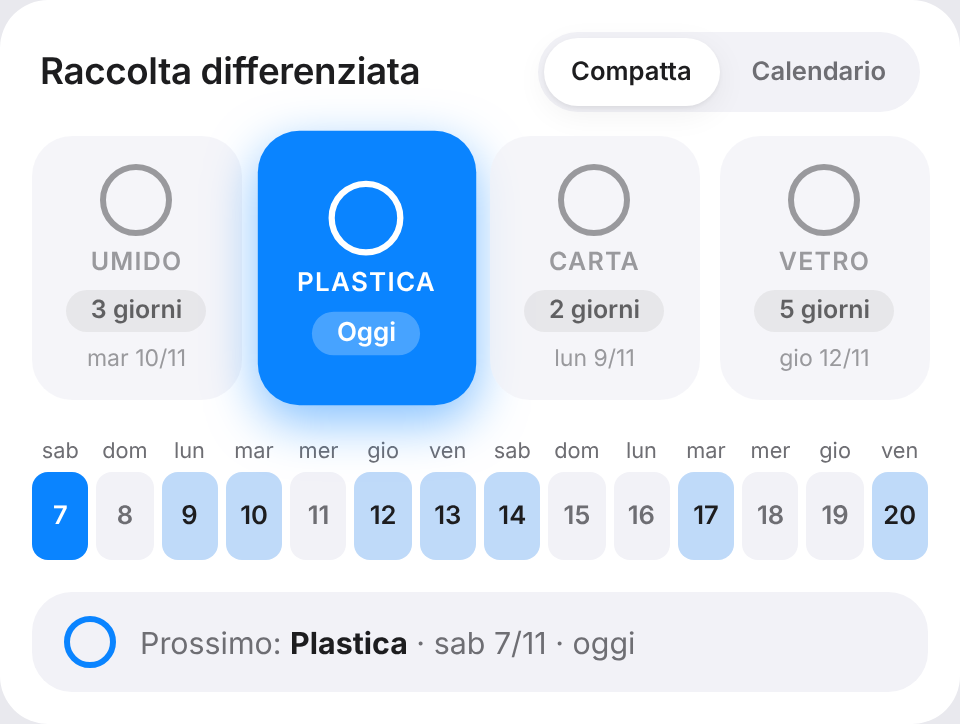
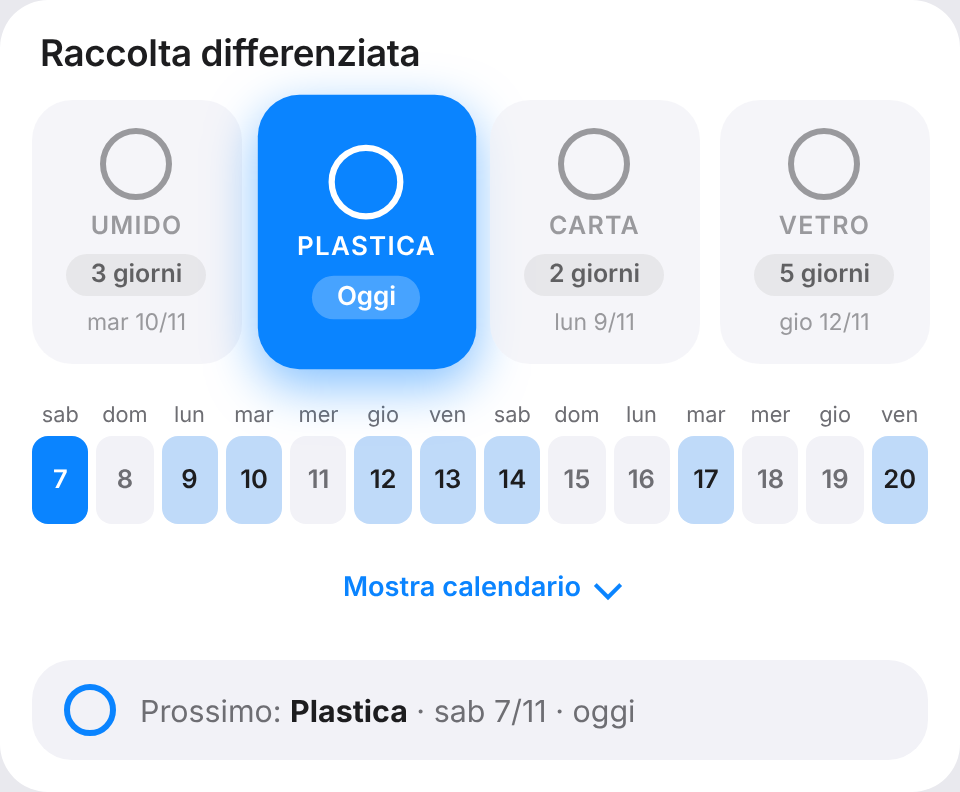
Calendario espandibile dalla card compatta (0.2.1)
Claude-Session: https://claude.ai/code/session_01BPWojQZg7AGnjhhBiETp5T

diff --git a/custom_components/garbage_view/frontend/garbage-view-card.js b/custom_components/garbage_view/frontend/garbage-view-card.js
@@ -16,7 +16,7 @@
  * dopo aver validato il valore con una regex.
  */
 
-const CARD_VERSION = "0.2.0";
+const CARD_VERSION = "0.2.1";
 const SUPPORTED_SCHEMA = 1;
 // Periodi iniziali del calendario grande.
 const CAL_MODES = ["week", "next_week", "month"];
@@ -40,9 +40,8 @@ const STRINGS = {
     no_entity: (e) => `Entità non trovata: ${e}`,
     unavailable: "Dati non disponibili.",
     bad_schema: "Versione dati non supportata: aggiorna l'integrazione o la card.",
-    view_compact: "Compatta",
-    view_calendar: "Calendario",
-    view_label: "Tipo di vista",
+    expand: "Mostra calendario",
+    collapse: "Nascondi calendario",
     next_week: "Prossima",
     month: "Mese",
     range_label: "Periodo mostrato",
@@ -66,9 +65,8 @@ const STRINGS = {
     no_entity: (e) => `Entity not found: ${e}`,
     unavailable: "Data not available.",
     bad_schema: "Unsupported data version: update the integration or the card.",
-    view_compact: "Compact",
-    view_calendar: "Calendar",
-    view_label: "View type",
+    expand: "Show calendar",
+    collapse: "Hide calendar",
     next_week: "Next",
     month: "Month",
     range_label: "Period shown",
@@ -215,7 +213,7 @@ const STYLES = `
   .dot { width: 8px; height: 8px; border-radius: 50%; background: var(--gv-accent); flex: none; }
   .detail .none { color: var(--gv-text-secondary); }
 
-  /* ---- Intestazione: titolo + interruttore Compatta / Calendario ---- */
+  /* ---- Intestazione ---- */
   .header { gap: 12px; flex-wrap: wrap; align-items: center; }
   /* Controllo segmentato stile iOS: una "pillola" grigia con il segmento attivo in rilievo */
   .seg {
@@ -232,10 +230,39 @@ const STYLES = `
   }
   .seg button[aria-pressed="true"] { background: var(--gv-bg); color: var(--gv-text); box-shadow: var(--gv-shadow); }
   :host([data-dark]) .seg button[aria-pressed="true"] { background: #636366; }
-  .header .seg { margin-left: auto; }
   .seg button:focus-visible, .nav button:focus-visible { outline: 3px solid var(--gv-accent); outline-offset: 1px; }
 
+  /* ---- Pannelli espandibili (striscia <-> calendario) ----
+     Animazione di altezza senza JS di misura: grid-template-rows 0fr -> 1fr.
+     Il pannello chiuso è nascosto (visibility) e "inert": niente focus né lettori di schermo. */
+  .collapse {
+    display: grid; grid-template-rows: 0fr; opacity: 0; visibility: hidden;
+    transition: grid-template-rows 360ms cubic-bezier(.32, .72, 0, 1), opacity 240ms ease,
+                visibility 0s linear 360ms;
+  }
+  .collapse.open { grid-template-rows: 1fr; opacity: 1; visibility: visible; transition-delay: 0s; }
+  .collapse > .inner { overflow: hidden; min-height: 0; padding: 4px; margin: -4px; }
+
+  /* ---- Pulsante espandi / comprimi ---- */
+  .expander {
+    all: unset; box-sizing: border-box; cursor: pointer;
+    display: flex; align-items: center; justify-content: center; gap: 8px;
+    width: 100%; min-height: 44px; margin-top: 8px; border-radius: 12px;
+    font-size: .85rem; font-weight: 600; color: var(--gv-accent);
+    transition: background var(--gv-anim-duration) ease, transform var(--gv-anim-duration) ease;
+  }
+  .expander:hover { background: var(--gv-tile-bg); }
+  .expander:active { transform: scale(.97); }
+  .expander:focus-visible { outline: 3px solid var(--gv-accent); outline-offset: 1px; }
+  .expander .chev {
+    width: 8px; height: 8px; margin-top: -3px;
+    border-right: 2px solid currentColor; border-bottom: 2px solid currentColor;
+    transform: rotate(45deg); transition: transform 360ms cubic-bezier(.32, .72, 0, 1), margin var(--gv-anim-duration) ease;
+  }
+  .expander[aria-expanded="true"] .chev { transform: rotate(-135deg); margin-top: 3px; }
+
   /* ---- Calendario grande ---- */
+  .cal { margin-top: 16px; }
   .cal-toolbar { display: flex; align-items: center; justify-content: space-between; gap: 8px; flex-wrap: wrap; margin-bottom: 12px; }
   .nav { display: flex; align-items: center; gap: 4px; }
   .nav button {
@@ -428,7 +455,7 @@ class GarbageViewCard extends HTMLElement {
     this._content = el("div", "card");
     this._root.append(style, this._content);
     this._selected = null; // data ISO del giorno toccato
-    this._view = "compact"; // vista corrente: "compact" | "calendar" (l'utente può cambiarla col toggle)
+    this._expanded = false; // calendario espanso? (si cambia col pulsante, senza ridisegnare la card)
     this._cal = { unit: "week", offset: 0 }; // periodo del calendario: settimana/mese + scostamento da oggi
     this._focusKey = null; // controllo da rifocalizzare dopo un re-render (tastiera)
     this._dir = 0; // direzione dello scorrimento (-1 indietro, 1 avanti)
@@ -443,7 +470,8 @@ class GarbageViewCard extends HTMLElement {
       title: typeof config.title === "string" ? config.title.slice(0, 80) : "",
       days: Number(config.days) === 7 ? 7 : 14,
       show_summary: config.show_summary !== false,
-      view: config.view === "calendar" ? "calendar" : "compact",
+      // `view: calendar` (v0.2.0) equivale a start_expanded: true.
+      start_expanded: config.start_expanded === true || (config.start_expanded === undefined && config.view === "calendar"),
       calendar_mode: CAL_MODES.includes(config.calendar_mode) ? config.calendar_mode : "week",
       show_view_toggle: config.show_view_toggle !== false,
       style,
@@ -453,11 +481,11 @@ class GarbageViewCard extends HTMLElement {
     // Vista e periodo tornano ai valori della config solo se la config li ha
     // cambiati davvero (così l'editor non azzera la navigazione ad ogni tasto).
     const prev = this._appliedView;
-    if (!prev || prev.view !== this._config.view || prev.mode !== this._config.calendar_mode) {
-      this._view = this._config.view;
+    if (!prev || prev.expanded !== this._config.start_expanded || prev.mode !== this._config.calendar_mode) {
+      this._expanded = this._config.start_expanded;
       this._setMode(this._config.calendar_mode);
       this._selected = null;
-      this._appliedView = { view: this._config.view, mode: this._config.calendar_mode };
+      this._appliedView = { expanded: this._config.start_expanded, mode: this._config.calendar_mode };
     }
     this.setAttribute("data-style", style);
     this._applyCustomCss();
@@ -581,27 +609,29 @@ class GarbageViewCard extends HTMLElement {
 
     const frag = document.createDocumentFragment();
 
-    if (this._config.title || this._config.show_view_toggle) {
+    if (this._config.title) {
       const header = el("div", "header");
-      if (this._config.title) header.append(el("h2", "title", this._config.title));
-      if (this._config.show_view_toggle) {
-        header.append(this._segmented(t.view_label, [
-          ["compact", t.view_compact, this._view === "compact", () => { this._view = "compact"; this._update("view-compact"); }],
-          ["calendar", t.view_calendar, this._view === "calendar", () => { this._view = "calendar"; this._update("view-calendar"); }],
-        ], "view"));
-      }
+      header.append(el("h2", "title", this._config.title));
       frag.append(header);
     }
 
-    if (this._view === "calendar") {
-      frag.append(this._buildCalendar(a, types, byId, t));
-    } else {
-      const grid = el("div", "types");
-      grid.setAttribute("role", "list");
-      types.forEach((type, i) => grid.append(this._buildTile(type, i, highlighted.has(type.id), t)));
-      frag.append(grid);
-      if (Array.isArray(a.days)) frag.append(this._buildStrip(a.days, byId, t));
-    }
+    const grid = el("div", "types");
+    grid.setAttribute("role", "list");
+    types.forEach((type, i) => grid.append(this._buildTile(type, i, highlighted.has(type.id), t)));
+    frag.append(grid);
+
+    // Striscia e calendario stanno nello stesso punto: espandendo, la striscia
+    // si chiude e il calendario si apre (altezza animata, nessun re-render).
+    const canExpand = this._config.show_view_toggle;
+    const expanded = this._expanded;
+    this._ctx = { a, types, byId, t };
+    this._strip = Array.isArray(a.days) ? this._collapse(this._buildStrip(a.days, byId, t), !expanded) : null;
+    this._calendar = this._collapse(null, expanded);
+    this._calendar.id = "gv-calendar";
+    if (this._strip) frag.append(this._strip);
+    frag.append(this._calendar);
+    if (expanded) this._fillCalendar();
+    if (canExpand) frag.append(this._buildExpander(t, expanded));
     if (this._config.show_summary) frag.append(this._buildSummary(a.next_item, byId, t));
 
     this._content.replaceChildren(frag);
@@ -612,6 +642,56 @@ class GarbageViewCard extends HTMLElement {
       this._focusKey = null;
       if (target) target.focus();
     }
+  }
+
+  // Pannello che si apre/chiude in altezza. `content` può essere null (riempito dopo).
+  _collapse(content, open) {
+    const wrap = el("div", "collapse" + (open ? " open" : ""));
+    const inner = el("div", "inner");
+    if (content) inner.append(content);
+    wrap.append(inner);
+    wrap.toggleAttribute("inert", !open);
+    wrap.setAttribute("aria-hidden", String(!open));
+    return wrap;
+  }
+
+  // Il calendario si costruisce solo quando serve (la prima volta che si espande).
+  _fillCalendar() {
+    const inner = this._calendar && this._calendar.firstChild;
+    if (!inner || !this._ctx) return;
+    const { a, types, byId, t } = this._ctx;
+    inner.replaceChildren(this._buildCalendar(a, types, byId, t));
+  }
+
+  _buildExpander(t, expanded) {
+    const b = el("button", "expander");
+    b.type = "button";
+    b.dataset.key = "expander";
+    b.setAttribute("aria-controls", "gv-calendar");
+    b.setAttribute("aria-expanded", String(expanded));
+    const label = el("span", null, expanded ? t.collapse : t.expand);
+    const chev = el("span", "chev");
+    chev.setAttribute("aria-hidden", "true");
+    b.append(label, chev);
+    b.addEventListener("click", () => {
+      this._expanded = b.getAttribute("aria-expanded") !== "true";
+      this._selected = null;
+      b.setAttribute("aria-expanded", String(this._expanded));
+      label.textContent = this._expanded ? t.collapse : t.expand;
+      if (this._expanded && !this._calendar.firstChild.firstChild) this._fillCalendar();
+      // Un frame dopo l'inserimento, così il browser parte dall'altezza 0 e anima.
+      requestAnimationFrame(() => {
+        this._setOpen(this._calendar, this._expanded);
+        if (this._strip) this._setOpen(this._strip, !this._expanded);
+      });
+    });
+    return b;
+  }
+
+  _setOpen(panel, open) {
+    panel.classList.toggle("open", open);
+    panel.toggleAttribute("inert", !open);
+    panel.setAttribute("aria-hidden", String(!open));
   }
 
   // Controllo segmentato: `items` = [chiave, testo, attivo, onClick].
@@ -888,14 +968,12 @@ const EDITOR_STRINGS = {
     days: "Giorni mostrati nella striscia",
     days_7: "7 giorni",
     days_14: "14 giorni",
-    view: "Vista iniziale",
-    view_compact: "Compatta (tessere e striscia)",
-    view_calendar: "Calendario grande",
+    start_expanded: "Apri con il calendario già espanso",
     calendar_mode: "Periodo iniziale del calendario",
     mode_week: "Questa settimana",
     mode_next_week: "Prossima settimana",
     mode_month: "Mese",
-    show_view_toggle: "Mostra l'interruttore Compatta / Calendario",
+    show_view_toggle: "Mostra il pulsante per espandere il calendario",
     show_summary: "Mostra la barra \"Prossimo\"",
     css: "Personalizzazione CSS (facoltativa)",
     css_hint: (ok, total) =>
@@ -914,14 +992,12 @@ const EDITOR_STRINGS = {
     days: "Days shown in the strip",
     days_7: "7 days",
     days_14: "14 days",
-    view: "Initial view",
-    view_compact: "Compact (tiles and strip)",
-    view_calendar: "Large calendar",
+    start_expanded: "Start with the calendar expanded",
     calendar_mode: "Calendar starting period",
     mode_week: "This week",
     mode_next_week: "Next week",
     mode_month: "Month",
-    show_view_toggle: "Show the Compact / Calendar switch",
+    show_view_toggle: "Show the button to expand the calendar",
     show_summary: "Show the \"Next\" bar",
     css: "CSS customization (optional)",
     css_hint: (ok, total) =>
@@ -1019,11 +1095,14 @@ class GarbageViewCardEditor extends HTMLElement {
     check.append(this._showSummary, el("span", null, t.show_summary));
     this._form.append(check);
 
-    this._view = this._select([["compact", t.view_compact], ["calendar", t.view_calendar]]);
-    this._field(t.view, this._view);
-
     this._mode = this._select([["week", t.mode_week], ["next_week", t.mode_next_week], ["month", t.mode_month]]);
     this._field(t.calendar_mode, this._mode);
+
+    this._startExpanded = el("input");
+    this._startExpanded.type = "checkbox";
+    const expandedCheck = el("label", "check");
+    expandedCheck.append(this._startExpanded, el("span", null, t.start_expanded));
+    this._form.append(expandedCheck);
 
     this._showToggle = el("input");
     this._showToggle.type = "checkbox";
@@ -1043,7 +1122,7 @@ class GarbageViewCardEditor extends HTMLElement {
     this._title.addEventListener("input", () => this._emit());
     this._styleSel.addEventListener("change", () => this._emit());
     this._days.addEventListener("change", () => this._emit());
-    this._view.addEventListener("change", () => this._emit());
+    this._startExpanded.addEventListener("change", () => this._emit());
     this._mode.addEventListener("change", () => this._emit());
     this._showToggle.addEventListener("change", () => this._emit());
     this._showSummary.addEventListener("change", () => this._emit());
@@ -1089,7 +1168,7 @@ class GarbageViewCardEditor extends HTMLElement {
     if (active !== this._title) this._title.value = c.title || "";
     this._styleSel.value = c.style === "homekit" ? "homekit" : "apple";
     this._days.value = Number(c.days) === 7 ? "7" : "14";
-    this._view.value = c.view === "calendar" ? "calendar" : "compact";
+    this._startExpanded.checked = c.start_expanded === true || (c.start_expanded === undefined && c.view === "calendar");
     this._mode.value = CAL_MODES.includes(c.calendar_mode) ? c.calendar_mode : "week";
     this._showToggle.checked = c.show_view_toggle !== false;
     this._showSummary.checked = c.show_summary !== false;
@@ -1118,7 +1197,8 @@ class GarbageViewCardEditor extends HTMLElement {
     set("title", this._title.value, this._title.value.trim() !== "");
     set("style", this._styleSel.value, true);
     set("days", 7, this._days.value === "7"); // 14 è il default
-    set("view", "calendar", this._view.value === "calendar"); // compact è il default
+    delete config.view; // opzione 0.2.0, sostituita da start_expanded
+    set("start_expanded", true, this._startExpanded.checked); // false è il default
     set("calendar_mode", this._mode.value, this._mode.value !== "week"); // week è il default
     set("show_view_toggle", false, !this._showToggle.checked); // true è il default
     set("show_summary", false, !this._showSummary.checked); // true è il default

diff --git a/README.md b/README.md
@@ -13,7 +13,7 @@ Integrazione per Home Assistant, installabile da HACS, che mostra **cosa buttare
 ### Funzioni
 - Tessere per ogni tipo di rifiuto, con badge «Oggi / Domani / N giorni» e data.
 - Striscia di 7 o 14 giorni e barra riepilogo «Prossimo».
-- **Calendario grande**: settimana, prossima settimana o mese, con frecce avanti/indietro e le icone dei rifiuti da portare fuori accanto a ogni giorno. Si passa dalla vista compatta al calendario con l'interruttore in alto a destra.
+- **Calendario grande**: settimana, prossima settimana o mese, con frecce avanti/indietro e le icone dei rifiuti da portare fuori accanto a ogni giorno. Si apre **sul posto** dalla vista compatta: tocca «Mostra calendario» sotto la striscia e il calendario si espande con un'animazione, tocca di nuovo per richiuderlo.
 - Ricorrenze: settimanale, ogni N settimane, n-esimo giorno del mese (anche «ultimo»), giorno del mese.
 - Tipi gestiti dall'interfaccia (nome, icona, regola), senza YAML.
 - Sensore `sensor.garbage_view_schedule` ed entità `calendar.garbage_view` per le automazioni.
@@ -37,9 +37,9 @@ entity: sensor.garbage_view_schedule   # obbligatorio
 title: Raccolta differenziata          # opzionale
 style: apple                           # apple | homekit
 days: 14                               # 7 | 14
-view: compact                          # compact | calendar (vista iniziale)
+start_expanded: false                  # true = calendario già aperto (sostituisce `view: calendar`)
 calendar_mode: week                    # week | next_week | month (periodo iniziale)
-show_view_toggle: true                 # interruttore Compatta / Calendario
+show_view_toggle: true                 # pulsante «Mostra/Nascondi calendario»
 show_summary: true                     # barra «Prossimo»
 css: "--gv-radius: 18px; --gv-accent: #34c759"   # opzionale
 ```
@@ -56,7 +56,7 @@ Da **Configura → Notifiche sul telefono** puoi attivare una notifica push all'
 - Servizio `garbage_view.send_test_notification` per provarla subito.
 
 ### Calendario grande
-Con `view: calendar` (o toccando **Calendario** nell'interruttore) la card mostra una griglia lunedì→domenica con le icone dei rifiuti in ogni giorno. **Settimana / Prossima / Mese** scelgono il periodo, le frecce ‹ › navigano (anche nei mesi passati). Oggi è evidenziato; toccando un giorno vedi i nomi, e una legenda spiega le icone. Le ricorrenze sono calcolate nella card dalle regole esposte dal sensore, quindi non serve alcuna configurazione in più.
+Toccando **Mostra calendario** (o con `start_expanded: true`; la vecchia `view: calendar` funziona ancora) la card espande sul posto una griglia lunedì→domenica con le icone dei rifiuti in ogni giorno. **Settimana / Prossima / Mese** scelgono il periodo, le frecce ‹ › navigano (anche nei mesi passati). Oggi è evidenziato; toccando un giorno vedi i nomi, e una legenda spiega le icone. Le ricorrenze sono calcolate nella card dalle regole esposte dal sensore, quindi non serve alcuna configurazione in più.
 
 | Mese · chiaro | Mese · scuro |
 |---|---|
@@ -111,7 +111,7 @@ A HACS-installable Home Assistant integration that shows **what to put out today
 ### Features
 - One tile per waste type with a "Today / Tomorrow / N days" badge and date.
 - 7- or 14-day strip and a "Next" summary bar.
-- **Large calendar**: week, next week or month with previous/next arrows and small icons showing which waste goes out each day. A switch at the top right toggles between the compact view and the calendar.
+- **Large calendar**: week, next week or month with previous/next arrows and small icons showing which waste goes out each day. It opens **in place** from the compact view: tap “Show calendar” under the strip and it expands with a smooth animation; tap again to collapse.
 - Recurrences: weekly, every N weeks, nth weekday of the month (including "last"), day of month.
 - Waste types managed from the UI (name, icon, rule), no YAML needed.
 - `sensor.garbage_view_schedule` and `calendar.garbage_view` entities for automations.
@@ -135,9 +135,9 @@ entity: sensor.garbage_view_schedule   # required
 title: Recycling                       # optional
 style: apple                           # apple | homekit
 days: 14                               # 7 | 14
-view: compact                          # compact | calendar (initial view)
+start_expanded: false                  # true = calendar already open (replaces `view: calendar`)
 calendar_mode: week                    # week | next_week | month (initial period)
-show_view_toggle: true                 # Compact / Calendar switch
+show_view_toggle: true                 # “Show/Hide calendar” button
 show_summary: true                     # "Next" bar
 css: "--gv-radius: 18px; --gv-accent: #34c759"   # optional
 ```
@@ -154,7 +154,7 @@ From **Configure → Mobile notifications** you can enable a push notification t
 - Service `garbage_view.send_test_notification` to try it right away.
 
 ### Large calendar
-With `view: calendar` (or by tapping **Calendar** in the switch) the card shows a Monday→Sunday grid with the waste icons on each day. **Week / Next / Month** pick the period and the ‹ › arrows navigate (past months included). Today is highlighted; tap a day to see names, and a legend explains the icons. Recurrences are computed in the card from the rules exposed by the sensor, so no extra setup is needed.
+By tapping **Show calendar** (or with `start_expanded: true`; the old `view: calendar` still works) the card expands in place to show a Monday→Sunday grid with the waste icons on each day. **Week / Next / Month** pick the period and the ‹ › arrows navigate (past months included). Today is highlighted; tap a day to see names, and a legend explains the icons. Recurrences are computed in the card from the rules exposed by the sensor, so no extra setup is needed.
 
 See the screenshots below (`docs/screenshots/calendario-*.png`).
 

diff --git a/CHANGELOG.md b/CHANGELOG.md
@@ -2,6 +2,13 @@
 
 Formato basato su [Keep a Changelog](https://keepachangelog.com/it/1.1.0/). / Format based on Keep a Changelog.
 
+## [0.2.1] - 2026-11-07
+
+### Cambiato / Changed
+- **Il calendario si espande dalla card compatta**, sul posto: niente più vista separata. Sotto la striscia dei giorni c'è il pulsante «Mostra calendario» (chevron, `aria-expanded`, tastiera): la striscia si chiude e il calendario si apre con un'animazione di altezza; ricliccando si torna alla vista compatta. Tessere, titolo e barra «Prossimo» restano sempre visibili. Con `prefers-reduced-motion` il passaggio è istantaneo. Il calendario viene costruito solo alla prima apertura.
+- Nuova opzione `start_expanded` (calendario già aperto). La vecchia `view: calendar` continua a funzionare come `start_expanded: true`; l'editor visuale ora scrive `start_expanded`. `show_view_toggle: false` nasconde il pulsante.
+- Test vitest/Playwright e screenshot aggiornati.
+
 ## [0.2.0] - 2026-11-07
 
 ### Novità / Added
